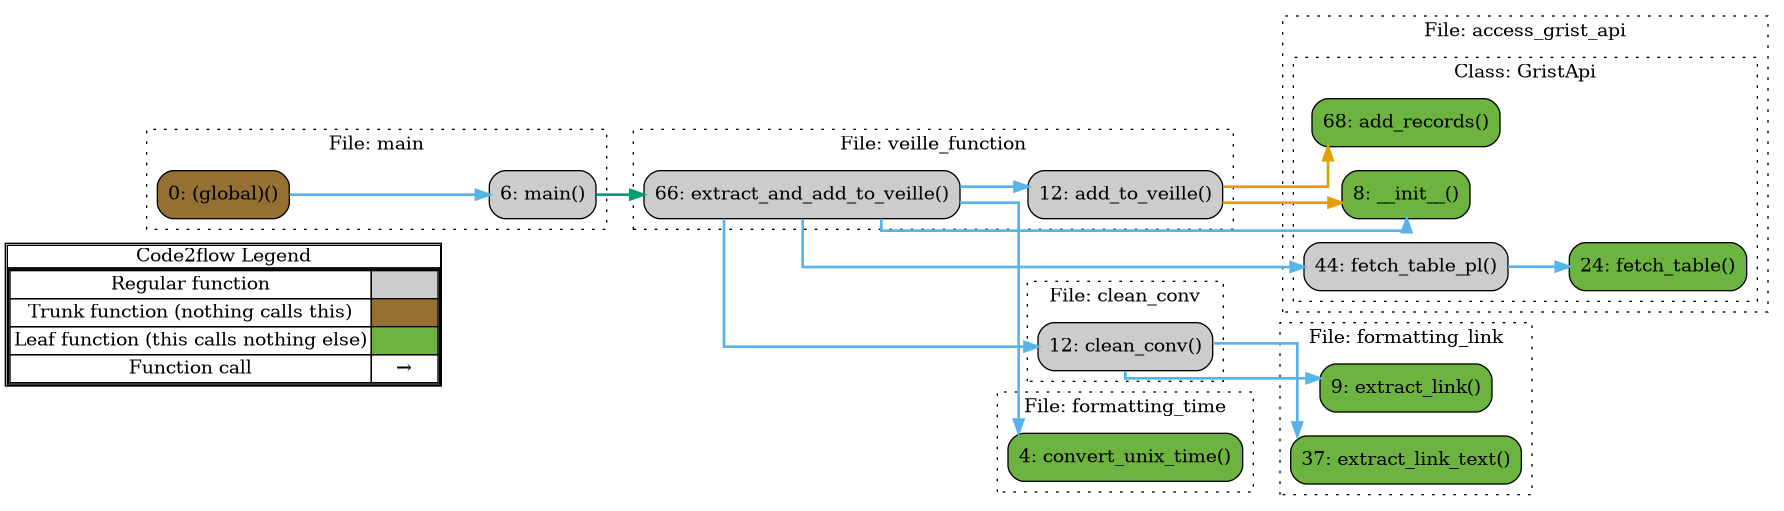
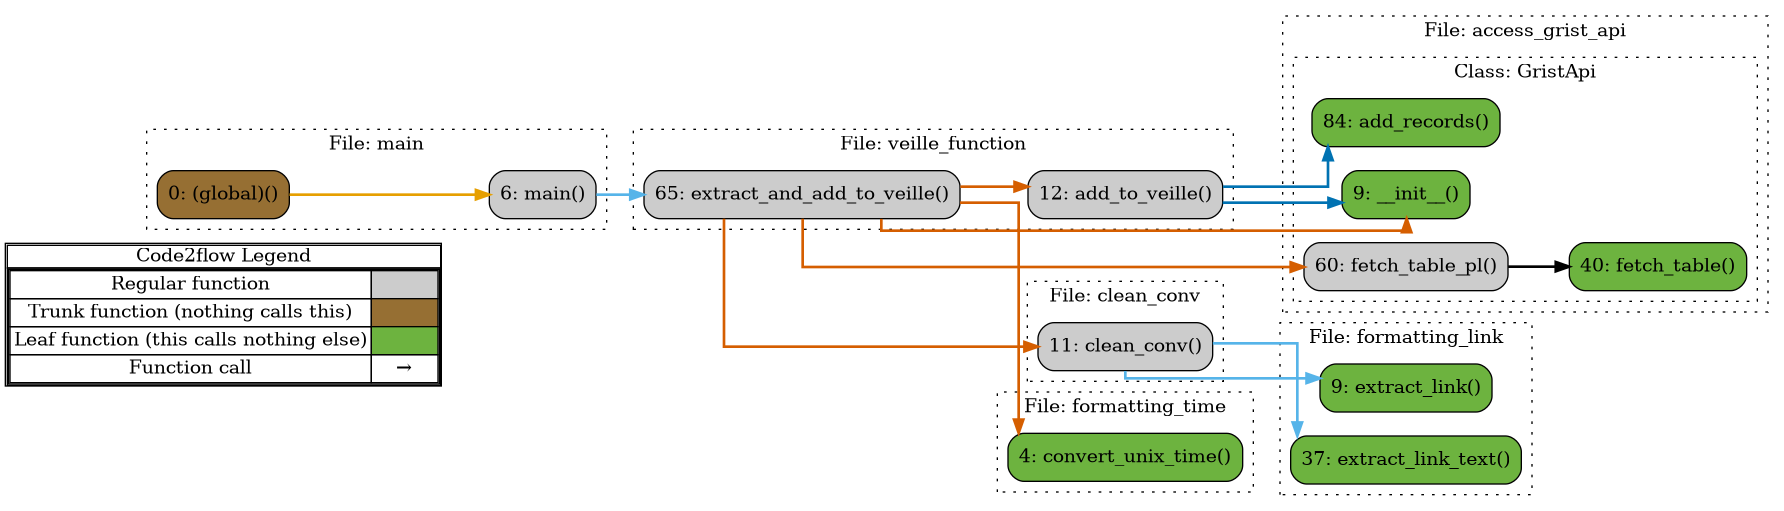
update readme

diff --git a/README.md b/README.md
@@ -58,10 +58,12 @@ The final result should be something like :
 
 ## Instructions :
 
+- Launch a VSCode-Pyhton service in Onyxia with above secrets and clone this git repo.
+
 ### Export Tchap conversation
 
-- go to Tchap
-- extract the discussion using :
+- go to Tchap;
+- extract the discussion using:
   - click on the discussion name (top of the window)
   - on the right handside panel, go to "Export conversation" , with the following options :
     - format: _json_ file
@@ -73,11 +75,14 @@ The final result should be something like :
 
 ### Update to Grist table
 
-- Launch a VSCode-Pyhton service in Onyxia with your secret and clone the git repo.
-- run the following commands on Terminal. `main.py` will accept two arguments :
-  - a path to the json file to clean and import to Grist. The argument is named `-f` or `--file`
-  - the name of the target Grist table to import the data to. It can be either "Test" or "Veille". The argument is named `-t` or `--table`
-  - by default, the main script will run using a file named "export.json" in the ssphub_veille directory and import it into the table named "Test".
+- run the `main.py` script with `uv` on Terminal. `main.py` will accept two arguments from the CLI:
+  - a path to the json file to clean and import to Grist.
+    The argument is named `-f` or `--file` and by default is "export.json".
+  - the name of the target Grist table to import the data to.
+    It can be either "Test" or "Veille". The argument is named `-t` or `--table`.
+    By default, it is the "Test" table
+  - by default, the main script will run using a file named "export.json" in the
+    ssphub_veille directory and import it into the table named "Test".
 
 ```{bash}
 cd ssphub_veille
@@ -86,7 +91,11 @@ uv run main.py -t "Veille"
 # uv run main.py -f "export.json" -t "Veille"
 ```
 
-- Grist table has been updated
+- You should see logs of the script with the following steps:
+  - Extraction from the Tchap conversation and number of links extracted,
+  - Grist target table downloaded and number of rows before update,
+  - Filtering duplicate links and number of final links to be added,
+  - Export to the target table and ids of the appended rows
 
 # Bugs
 
@@ -96,6 +105,7 @@ uv run main.py -t "Veille"
 
   If the result of the command is :
 
+  ```bash
   Test with allow_redirects=True
   <Response [200]>
   https://grist.numerique.gouv.fr/api/docs/qntJ8WFEMytztkVZCwyCSN/tables/Test/records
@@ -104,6 +114,7 @@ uv run main.py -t "Veille"
   <Response [302]>
   https://grist.numerique.gouv.fr/api/docs/qntJ8WFEMytztkVZCwyCSN/tables/Test/records
   POST
+  ```
 
   It means that there is a problem.
 
@@ -113,4 +124,4 @@ uv run main.py -t "Veille"
 
 ![overview of the structure of the functions (except testing functions)](docs/call_graph_all_but_test.png)
 
-The graph can be generated with `graphs.sh`
+The graph can be generated by running the `docs/graphs.sh` with bash.